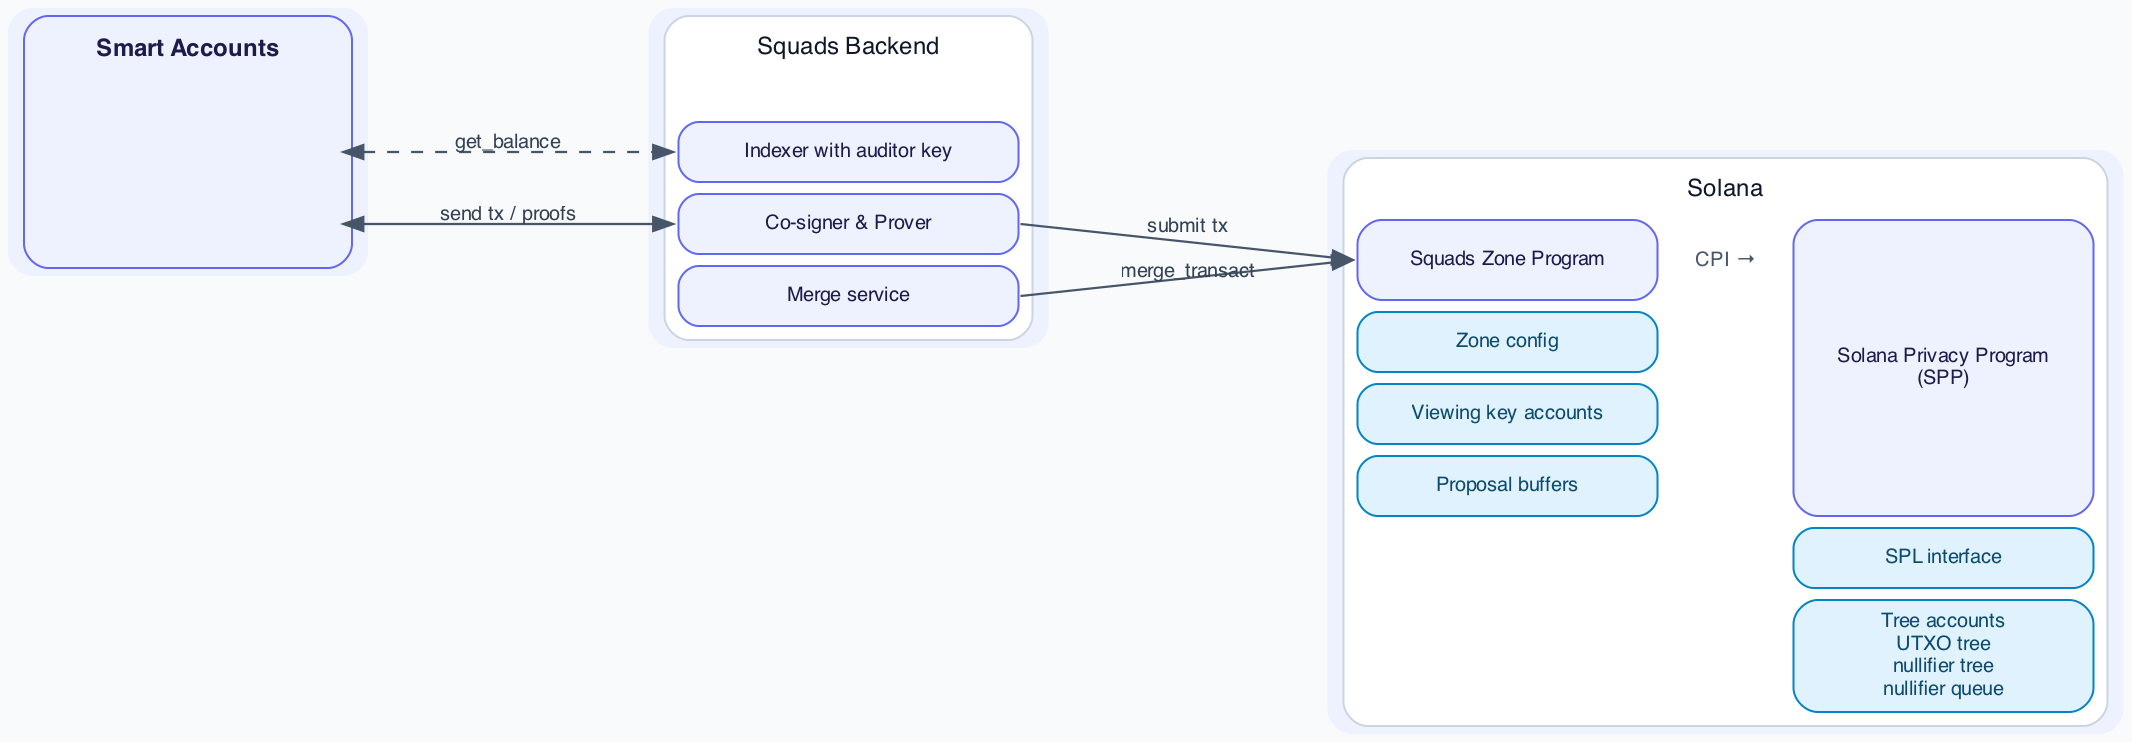
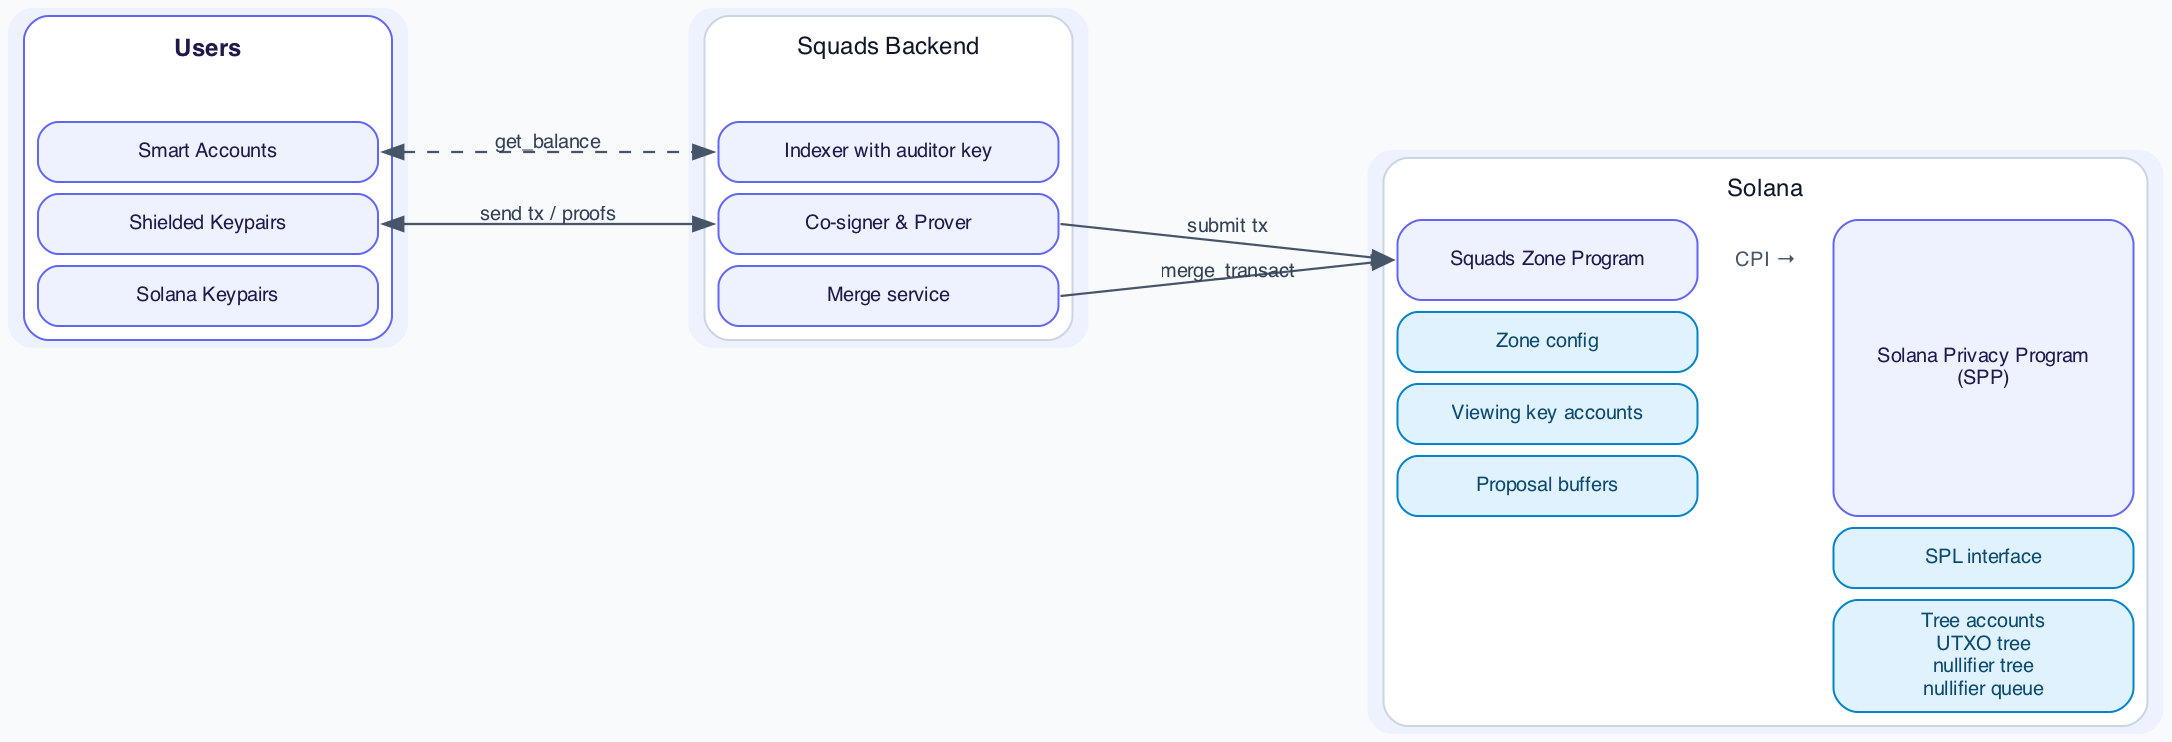
cleanup sqauds

diff --git a/docs/squads_policy_program.md b/docs/squads_policy_program.md
@@ -1,13 +1,13 @@
 # Squads Zone Program
 
-The Squads Zone Program configures a zone on the Solana Privacy Protocol (TSPP), which provides anonymous transfers in a single Solana transaction. It adds compliance features, a co-signer, and smart-account support.
+The Squads Zone Program configures a zone on the Solana Privacy Protocol (TSPP), which provides private transfers in a single Solana transaction. The zone adds compliance features, a co-signer, and smart-account support.
 TODO: lookup requirements again and tick all boxes in the intro.
 
-For compliance, the zone program configures an auditor encryption key and verifies a zk proof in every transfer instruction. The zone proof shows that new output UTXOs are encrypted to an auditor-readable key, so the auditor can decrypt and index every zone UTXO.
+For compliance, the zone program configures an auditor encryption key and verifies a zk proof in every transfer instruction. The zone zk proof shows that all balance updates encrypted to an auditor-readable key, so the auditor can decrypt and index all balances.
 
 For smart accounts, the program supports asynchronous execution and user accounts with shared encryption keys. Asynchronous execution uses a proposal buffer that a co-signer or relayer executes after approval. User accounts store encryption keys shared between the auditor and one or more smart account holders. The auditor key and user keys can be safely migrated unilaterally by proving the new shared key was encrypted correctly.
 
-For a seamless account-like experience, the auditor consolidates fragmented UTXO balances so users can spend their full balance in one transfer. The squads zone depends on its backend and co-signer for liveness. To ensure that users can withdraw funds without the Squads backend, users can sync their wallets from RPC data alone, decrypt locally, and withdraw without a co-signer.
+Balances are stored in unspent transaction outputs (UTXOs). For a seamless account-like experience, the auditor consolidates fragmented UTXO balances so users can spend their full balance in one transfer. The squads zone depends on its backend and co-signer for liveness. To ensure that users can withdraw funds without the Squads backend, users can sync their wallets from RPC data alone, decrypt locally, and withdraw without a co-signer.
 
 This document specifies how the zone program fits into the TSPP architecture, shared viewing keys between smart account holders and auditors, the program's accounts, its zone proof, its instructions, its zone-specific encrypted UTXO serialization, and transaction sizes.
 
@@ -44,15 +44,18 @@ Types used in this document.
 | --- | --- | --- |
 | `Address` | `[u8; 32]` | Solana account address. |
 | `Signature` | `[u8; 64]` | Ed25519 Solana transaction signature. |
-| `Instruction` | — | Solana SDK instruction: program id + account metas + data. |
+| `Instruction` | — | Solana SDK instruction. |
 | `P256Pubkey` | `[u8; 33]` | SEC1-compressed P-256 public key: 1-byte parity prefix + 32-byte x-coordinate. |
 | `asset_id` | `u64` | Asset identifier in UTXOs and ciphertexts. `1` is SOL; each SPL mint gets a distinct `asset_id ≥ 2`, set in a per-mint PDA at SPL interface creation. |
+| `Spp` | `[u8; 192]` | Solana privacy program. |
 | `ZoneProof` | `[u8; 192]` | Compressed Groth16 zone proof with commitment. |
-| `SppProof` | `[u8; 192]` | Compressed Groth16 SPP proof with commitment; forwarded to SPP. |
+| `SppProof` | `[u8; 192]` | Compressed Groth16 SPP proof with commitment; verified in SPP. |
 | `SharedKeyCiphertext` | `[u8; 81]` | HPKE-wrapped shared viewing private key: 33-byte ephemeral P-256 key + 32-byte AES-GCM ciphertext + 16-byte GCM tag. |
-| `ProposalCiphertext` | `[u8; 89]` | Operation amount and blinding encrypted to the shared viewing key: 33-byte ephemeral P-256 key + 40-byte AES-GCM ciphertext (8-byte amount + 32-byte blinding) + 16-byte GCM tag. |
+| `ProposalCiphertext` | `[u8; 88]` | Operation amount and blinding encrypted to the shared viewing key: 33-byte ephemeral P-256 key + 39-byte AES-GCM ciphertext (8-byte amount + 31-byte blinding) + 16-byte GCM tag. |
 | `SenderCiphertext` | `[u8; 32]` | Sender change ciphertext: 16-byte plaintext (`amount`, `asset_id`) + 16-byte GCM tag. |
 | `RecipientCiphertext` | `[u8; 63]` | Recipient output ciphertext: 47-byte plaintext (`amount`, `asset_id`, 31-byte `blinding`) + 16-byte GCM tag. |
+| `Shielded Keypair` | `` | |
+| `Shielded Address` | `` | |
 
 
 ## Architecture
@@ -61,13 +64,13 @@ Types used in this document.
 
 Source: [`diagrams/squads_policy_program.dot`](diagrams/squads_policy_program.dot). Regenerate with `just render-diagrams`.
 
-The squads program builds on top of the SPP. The backend (indexer, prover, relayer, and auditor) builds balances and proofs; the client signs; the squads program verifies the [zone proof](#zone-proof) and CPIs SPP. Execution is either synchronous ([transact](#transact)) or deferred through a [proposal](#asynchronous-transfers).
+The squads program builds on top of the Solana Privacy Program (SPP). The backend (indexer, prover, relayer, and auditor) builds balances and proofs; the user signs; the squads program verifies the [zone proof](#zone-proof) and CPIs SPP. Execution is either synchronous ([transact](#transact)) or asynchronous with a [proposal](#asynchronous-transfers) user flow.
 
 ## Operations
 
 ### User
 
-Anyone using the zone. Every user has a [viewing key account](#viewing-key-account).
+A user is anyone using the zone. Every user has a [viewing key account](#viewing-key-account).
 
 | # | Name | Description | Privacy |
 | --- | --- | --- | --- |
@@ -78,7 +81,7 @@ Anyone using the zone. Every user has a [viewing key account](#viewing-key-accou
 | 5 | full_withdrawal | Escape-hatch exit without a co-signer or the backend. | amount + sender + recipient public |
 | 6 | create_viewing_key_account | Create an account that registers a shared viewing key (published encrypted to the auditor) and whitelist the merge service. |
 | 7 | update_viewing_key_account | Update the recovery keys or rotate the shared viewing key; re-encrypts the shared secret with a key rotation proof. |
-| 8 | toggle_viewing_key_account | Block or unblock transfers and key updates. While blocked, only clear_text_withdrawal is possible. |
+| 8 | toggle_viewing_key_account | Block or unblock transfers and key updates. While blocked, only full_withdrawal is possible. |
 | 9 | close_viewing_key_account | Close the viewing key account and reclaim rent. |
 | 10 | create_proposal | Create a proposal account to queue a deposit, withdraw or transfer operation for later execution. |
 | 11 | cancel_proposal | Cancel a queued operation for later execution. |
@@ -93,8 +96,8 @@ Roles operated by Squads: the auditor, the merge service, the zone creator, and 
 | 2 | update_zone_config | Rotate the auditor key, co-signer, or authority; burning the authority freezes the config. |
 | 3 | execute_proposal | Relayer/co-signer settles an approved proposal. |
 | 4 | merge_transact | Merge service consolidates a user's fragmented zone UTXOs. |
-| 5 | read (audit) | Auditor decrypts every zone UTXO via each user's shared viewing secret; cannot sign or spend. |
-| 6 | migrate_viewing_key_account | Permissionless re-encryption of a config to a rotated auditor key after `update_zone_config`. |
+| 5 | index (audit) | Auditor decrypts every zone UTXO via each user's shared viewing secret; cannot sign or spend. |
+| 6 | migrate_viewing_key_account | Permissionless re-encryption of a viewing key account to a rotated auditor key after `update_zone_config`. |
 | 7 | execute_key_update | Backend settles an approved key update proposal with the key rotation proof. |
 
 
@@ -102,31 +105,31 @@ Roles operated by Squads: the auditor, the merge service, the zone creator, and 
 
 An auditor and a smart account with multiple keys need a shared viewing key so every key holder can view its UTXOs.
 
-Viewing key accounts create, distribute, and store shared viewing keys with a correctness proof. At creation several viewing keys are declared, one per smart account key holder plus the auditor(s). The account stores the shared key's public key and its private key encrypted separately to each declared viewing key. At account creation and with any key rotations a zero knowledge proof proves that the encrypted private keys are correctly encrypted to all individual encryption keys. Each key holder and the auditor can then recover the shared private key independently.
+Viewing key accounts create, distribute, and store shared viewing keys. At creation several viewing keys are declared, one per smart account key holder plus the auditor(s). The account stores the shared key's public key and its private key encrypted separately to each declared viewing key. At account creation and with any key rotations a zero knowledge proof proves that the encrypted private keys are correctly encrypted to all individual encryption keys. Each key holder and the auditor can then recover the shared private key independently.
 
 UTXOs transferred to and from the account are encrypted to the shared key, so any eligible viewer can decrypt them. Verifiable encryption proves each UTXO is encrypted to the shared key. A viewing key account is required for sender and recipient of any operation in the squads zone.
 
 ## Asynchronous Transfers
 
-A smart account is controlled by several keys behind an approval threshold, so collecting their signatures can span more than one transaction. These use a proposal pattern.
+Smart accounts controlled by several keys with an approval threshold need to collecting signatures over multiple transactions for a proposal. The proposal cannot contain a SPP zk proof because SPP proofs reference a recent Merkle tree root which are only valid for a short time. To address this issue the Squads policy program implements a proposal user flow. 
 
 A key holder creates a proposal that commits to a single operation (deposit, withdrawal, or transfer) and encrypts the amount to the shared viewing key. The remaining signers approve the proposal through the smart account.
 
 Once the threshold is met, a co-signer or relayer holding the shared viewing key decrypts the proposal, builds the proof, and executes the transaction. The proposer can cancel a proposal before it executes, and a proposal expires at a set Unix timestamp.
 
-The zone program does not verify the smart-account threshold itself. Approval is enforced by the Squads multisig that wraps `create_proposal`, so the zone program treats an existing `Proposal` account as an approved operation; `execute_proposal` checks only the co-signer and the proof.
+The zone program does not verify the smart-account threshold itself. Approval is enforced by the smart account program that votes on the `create_proposal` instruction. The zone program treats an existing `Proposal` account as an approved operation; `execute_proposal` checks only the co-signer and the proof.
 
 ## Concurrency
 
-A UTXO is spent once, so transactions that spend different UTXOs are independent.
+A private balance consists out of one or multiple UTXOs. Every UTXO can be spent independently or multiple UTXOs can be spent in the same transaction.
 
-**Incoming.** Each transfer creates a new UTXO for the recipient, so transfers to a user run in parallel without limit, at the cost of fragmentation: the balance spreads across many UTXOs. The backend merges incoming UTXOs on demand so the user can spend their full balance in one transfer.
+**Incoming transactions** are parallel without limit. Each transfer creates a new UTXO for the recipient, so transfers to a user run in parallel without limit. at the cost of fragmentation: the balance spreads across many UTXOs. The backend merges incoming UTXOs on demand so the user can spend their full balance in one transfer.
 
-**Outgoing.** A UTXO can be spent by only one transaction at a time. To send multiple transfers in parallel from one keypair, a user splits their balance into several UTXOs in one transaction, then spends each in a separate transaction.
+**Outgoing transactions** are limited by the number of UTXOs the user balance is composed of. The default is for every account to only hold one UTXO of every asset. To send multiple transfers in parallel from one keypair, a user splits their balance into several UTXOs in one transaction, then spends each in separate parallel transactions.
 
 ## Auditor 
 
-A P256 public key stored in `ZoneConfig`. In production, held by the backend.
+A P256 public key stored in `ZoneConfig`. The auditor key is held by the backend.
 
 1. **Keys held** — P-256 encryption keypair.
 2. **Can do** — Decrypt every zone UTXO via the shared viewing secret in each [viewing key account](#viewing-key-account).
@@ -215,7 +218,7 @@ struct DecryptedProposal {
 
 #### `requestCreateViewingKeyAccount`
 
-Builds the [viewing key encryption proof](#viewing-key-encryption-proof) and the `create_viewing_key_account` instruction. With no `owner_signature`, the account is created auditor-only.
+Builds the [viewing key encryption proof](#viewing-key-encryption-proof) and the `create_viewing_key_account` instruction. Without `owner_signature`, the created account is only encrypted to the auditor key.
 
 ```rust
 struct RequestCreateViewingKeyAccountRequest {
@@ -359,7 +362,7 @@ struct Proposal {
 }
 ```
 
-Size: `226` bytes (`1 + 32 + 32 + 32 + 32 + 89 + 8`, borsh-packed).
+Size: `225` bytes (`1 + 32 + 32 + 32 + 32 + 88 + 8`, borsh-packed).
 
 #### Key Update Proposal
 
@@ -377,7 +380,7 @@ struct KeyUpdateProposal {
     domain: u16,
     /// Viewing key account to update.
     target: Address,
-    /// Requested changes to the recovery keys.
+    /// Requested change to a recovery key.
     operation: KeyOperation,
     /// Unix timestamp after which execution fails.
     expiry: i64,
@@ -393,13 +396,7 @@ struct KeyOperation {
 }
 ```
 
-Size is `45 + 35·N` bytes for `N` operations (header `1 + 32 + 8` plus a 4-byte `Vec` length prefix; each `KeyOperation` is `1 + 1 + 33`):
-
-| Operations (N) | Size (bytes) |
-| --- | --- |
-| 1 | 80 |
-| 2 | 115 |
-| 3 | 150 |
+Size: `78` bytes (`1 + 2 + 32 + 35 + 8`, borsh-packed; the `KeyOperation` is `1 + 1 + 33`).
 
 #### Zone Config
 
@@ -479,8 +476,8 @@ Verified by `execute_key_update` (recovery-key changes, shared-key rotation) and
 | 7 | update_viewing_key_account | 6 | Propose recovery-key changes or a shared-key rotation through the smart account. | — | ViewingKeyAccount | KeyUpdateProposal (create) | Smart account approval |
 | 8 | migrate_viewing_key_account | 7 | Permissionless re-encryption to a rotated auditor key. | — | ZoneConfig | ViewingKeyAccount | Permissionless (proof) |
 | 9 | close_viewing_key_account | 8 | Close the viewing key account and reclaim rent. | — | — | ViewingKeyAccount (close) | Owner signs |
-| 10 | toggle_viewing_key_account | 9 | Block or unblock transfers; while blocked, only clear_text_withdrawal remains available. | — | — | ViewingKeyAccount (state) | Owner signs |
-| 11 | clear_text_withdrawal | 10 | Escape-hatch exit without the co-signer or backend. | — | ViewingKeyAccount | SPP trees (CPI), SPL vault | Owner signs |
+| 10 | toggle_viewing_key_account | 9 | Block or unblock transfers; while blocked, only full_withdrawal remains available. | — | — | ViewingKeyAccount (state) | Owner signs |
+| 11 | full_withdrawal | 10 | Escape-hatch exit without the co-signer or backend. | — | ViewingKeyAccount | SPP trees (CPI), SPL vault | Owner signs |
 | 12 | create_proposal | 11 | Queue a deposit, withdrawal, or transfer for async execution. | — | ViewingKeyAccount | Proposal (create) | Proposer signs (smart account) |
 | 13 | cancel_proposal | 12 | Cancel a queued proposal before execution. | — | — | Proposal (close) | Proposer / owner signs |
 | 14 | execute_proposal | 13 | Relayer/co-signer settles an approved proposal with the proof. | ✓ | Proposal, ZoneConfig, sender + recipient ViewingKeyAccount | SPP trees (CPI), Proposal (close) | Co-signer / relayer signs |

diff --git a/docs/spec.md b/docs/spec.md
@@ -757,6 +757,7 @@ struct MergeEncryptedUtxo {
 | utxo_tree_roots (one per input UTXO) | resolved from `utxo_tree_root_index[i]` against the root cache of the input's UTXO tree |
 | nullifier_tree_roots (one per input UTXO) | resolved from `nullifier_tree_root_index[i]` against the root cache of the input's nullifier tree |
 | private_tx_hash | instruction data |
+| private_tx_hash_digest | `Sha256BE(private_tx_hash)`, recomputed by SPP on-chain from the `private_tx_hash` public input. The ECDSA message digest the proof checks the P256 `owner_signature` against. Computing the SHA-256 outside the circuit keeps the costly hash out of the constraint system; the proof performs only the EC arithmetic of ECDSA verification against this digest. |
 | external_data_hash | instruction data. SPP recomputes it from the instruction and checks it matches this public input. It is its own public input, not just an input to `private_tx_hash`, because SPP cannot recompute `private_tx_hash`: that hash covers the input UTXO hashes, which are private. Without it a proof could be reused with a different instruction (different `encrypted_utxos`, accounts, or fee). |
 | public_sol_amount | instruction data |
 | public_spl_amount | instruction data |
@@ -777,7 +778,7 @@ See [UTXO Hash](#utxo-hash) and [Nullifier](#nullifier).
 | `nullifier_pk` | owner's [Shielded Address](#shielded-address) nullifier commitment, a 32-byte field element |
 | `blinding`, `asset`, `amount`, `program_data_hash`, `policy_data_hash`, `zone_program_id` | UTXO body fields used to recompute `utxo_hash`; `blinding` also feeds the nullifier formula |
 | `utxo_merkle_path` | path proving `utxo_hash` is a leaf of the input's UTXO tree at the corresponding `utxo_tree_root` |
-| `owner_signature` | P256 signature by `signing_pk` over `private_tx_hash` (P256 owners only; ignored for Ed25519) |
+| `owner_signature` | P256 signature by `signing_pk` over `private_tx_hash` (P256 owners only; ignored for Ed25519). The proof checks it against the public `private_tx_hash_digest`; the SHA-256 that produces that digest is computed outside the circuit (see [UTXO Ownership Check](#utxo-ownership-check)). |
 
 **Private Inputs (shared across inputs)**
 
@@ -824,13 +825,13 @@ external_data_hash := Sha256BE(
 | Nullifier non-inclusion | Each input nullifier must NOT exist in the nullifier tree at its corresponding `nullifier_tree_roots[i]` before the transaction. |
 | Output UTXOs | Output UTXO hashes must be well formed and match `output_utxo_hashes[i]`. The proof hashes output `owner` into `output_utxo_hashes[i]` without unpacking it. |
 | Balance Conservation | For each active asset, inputs plus public deposits must equal outputs plus public withdrawals and fees. |
-| Private transaction hash | `private_tx_hash = Poseidon(input utxo hash chain, output utxo hash chain, external data hash, expiry_unix_ts)`.<br>The owner signs this value (see [UTXO Ownership Check](#utxo-ownership-check)). SPP, policy, and third-party proofs all take `private_tx_hash` as a public input, so every circuit proves statements about the same transaction data. |
+| Private transaction hash | `private_tx_hash = Poseidon(input utxo hash chain, output utxo hash chain, external data hash, expiry_unix_ts)`.<br>The owner signs this value; the ECDSA message digest `Sha256BE(private_tx_hash)` is computed outside the circuit and passed in as the `private_tx_hash_digest` public input (see [UTXO Ownership Check](#utxo-ownership-check)). SPP, policy, and third-party proofs all take `private_tx_hash` as a public input, so every circuit proves statements about the same transaction data. |
 | Program ownership | UTXOs owned by a zone program must be authorized by a PDA signer of that program. Policy proofs are checked by the zone program before CPI into SPP. |
 | Dummy input or output | ZK circuits are fixed size; dummy UTXOs allow a transaction to use fewer real inputs or outputs. Ownership, inclusion, nullifier-secret-binding, nullifier, and balance checks are skipped for dummy UTXOs. |
 
 <a id="utxo-ownership-check"></a>
 **Utxo Ownership Check:**
-1. P256 signature over `private_tx_hash` verified in the SPP proof; the same point recomputes `pk_field(signing_pk)` (see [Shielded Address](#shielded-address)). The hash covers every input, every output, the external-data hash, and `expiry_unix_ts`, so the proof cannot be replayed with different state.
+1. P256 signature over `private_tx_hash` verified in the SPP proof; the same point recomputes `pk_field(signing_pk)` (see [Shielded Address](#shielded-address)). The hash covers every input, every output, the external-data hash, and `expiry_unix_ts`, so the proof cannot be replayed with different state. The SHA-256 message digest is computed **outside** the circuit: SPP recomputes `private_tx_hash_digest = Sha256BE(private_tx_hash)` on-chain from the `private_tx_hash` public input and feeds it to the proof, which verifies the ECDSA signature against the digest using only EC arithmetic. Binding holds across the public inputs — the proof recomputes `private_tx_hash` from the private input/output hash chains and asserts it equals the `private_tx_hash` public input, SPP asserts `private_tx_hash_digest = Sha256BE(private_tx_hash)`, and the proof asserts the signature verifies against `private_tx_hash_digest`.
 2. Ed25519 Solana signer checked by SPP. The non-zero entry in the public `solana_pk_hashes` array tells the circuit to skip the P256 signature check on the input and bind the input's owner to the SPP-derived `pk_field`; SPP separately reads `in_utxo_signer_indices` from instruction data and verifies the named 32-byte Solana account is a signer of the transaction. The nullifier-secret binding is still checked by the proof for these inputs.
 
 **Circuit Combinations**